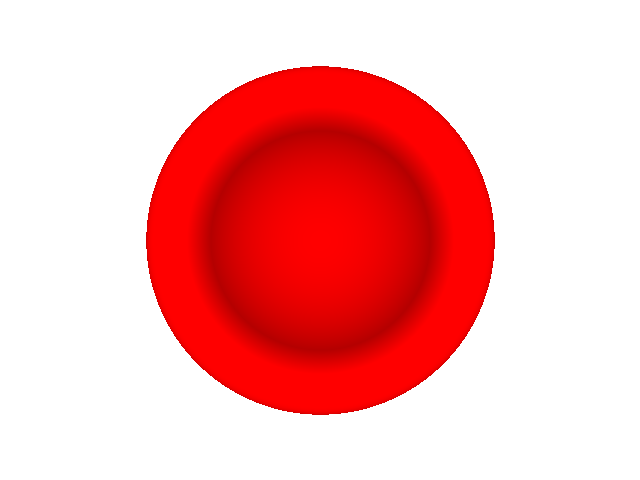
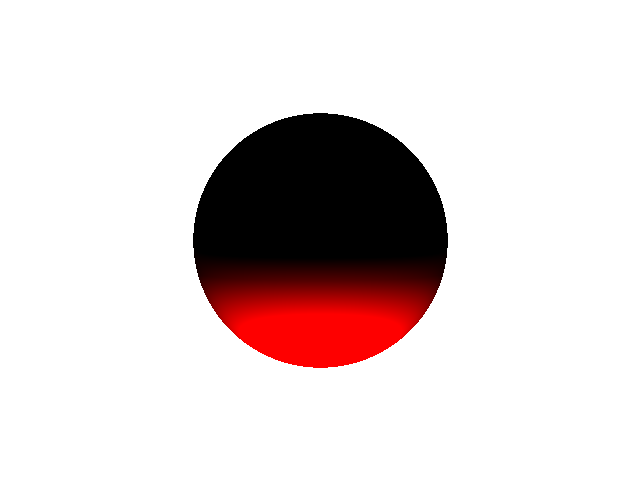
error fix
specular v calculate is wrong
(pos - origni) => (origin - pos);`

diff --git a/js/SRC/LIGHT/light.js b/js/SRC/LIGHT/light.js
@@ -27,8 +27,7 @@ module.exports = class Light {
 	}
 
 	getDiffuse(hitter, l) {
-		//const l = subVector(this.pos, hitter.pos).norm();
-		const m = Math.max(l.dot(hitter.normal), 0);
+		const m = Math.max(hitter.normal.dot(l), 0);
 		return multiplyVector(mulVector(this.color, m, this.intensity),
 					hitter.color);
 	}
@@ -36,7 +35,7 @@ module.exports = class Light {
 	getSpecular(hitter, l) {
 		const r = mulVector(hitter.normal, 2 * hitter.normal.dot(l))
 					.sub(l);
-		const v = subVector(hitter.pos, hitter.origin).norm();
+		const v = subVector(hitter.origin, hitter.pos).norm();
 		const m = Math.max(r.dot(v), 0);
 		return multiplyVector(mulVector(this.color, m * this.intensity),
 					hitter.color)

diff --git a/js/SRC/test.js b/js/SRC/test.js
@@ -8,11 +8,16 @@ const Light = require("./LIGHT/light");
 const camera = new Camera();
 const sphere = new Sphere();
 
-sphere.setPos(-3, 0, 0);
+sphere.setPos(-4, 0, 0);
 const objs = [sphere];
 const light = new Light();
+light.setPos(-4, 0, 4);
 
 camera.setCasting(objs, light);
+
+// console.log(camera);
+// console.log(light);
+// console.log(objs[0]);
 
 //console.log(camera.screen.map);
 const { createCanvas, createImageData, Image } = require("canvas");
@@ -28,6 +33,8 @@ camera.screen.map.forEach(({x, y, color}) => {
 	image.data[index + 1] = color.g;
 	image.data[index + 2] = color.b;
 	image.data[index + 3] = color.a;
+	//console.log(x, y, color);
+	
 })
 
 

diff --git a/js/SRC/OBJECTS/shpere.js b/js/SRC/OBJECTS/shpere.js
@@ -17,10 +17,10 @@ module.exports = class Sphere extends Object {
 
 		if (discriminant < 0)
 			return (-1);
-		value = -b - Math.sqrt(discriminant);
+		value = (-b - Math.sqrt(discriminant)) / a;
 		if (value > 0)
 			return (value);
-		value = -b + Math.sqrt(discriminant);
+		value = (-b + Math.sqrt(discriminant)) / a;
 		if (value > 0)
 			return (value);
 		return (-1);

diff --git a/js/SRC/SCREEN/screen.js b/js/SRC/SCREEN/screen.js
@@ -35,9 +35,9 @@ module.exports = class Screen {
 			else
 				return e;
 		});
-		return {r : color.x * 255 ,
-			g : color.y * 255,
-			b : color.z * 255, a : 255};
+		return {r : color.x * 254 ,
+			g : color.y * 254,
+			b : color.z * 254, a : 255};
 	}
 
 	setView(hitter, light, i, j) {
